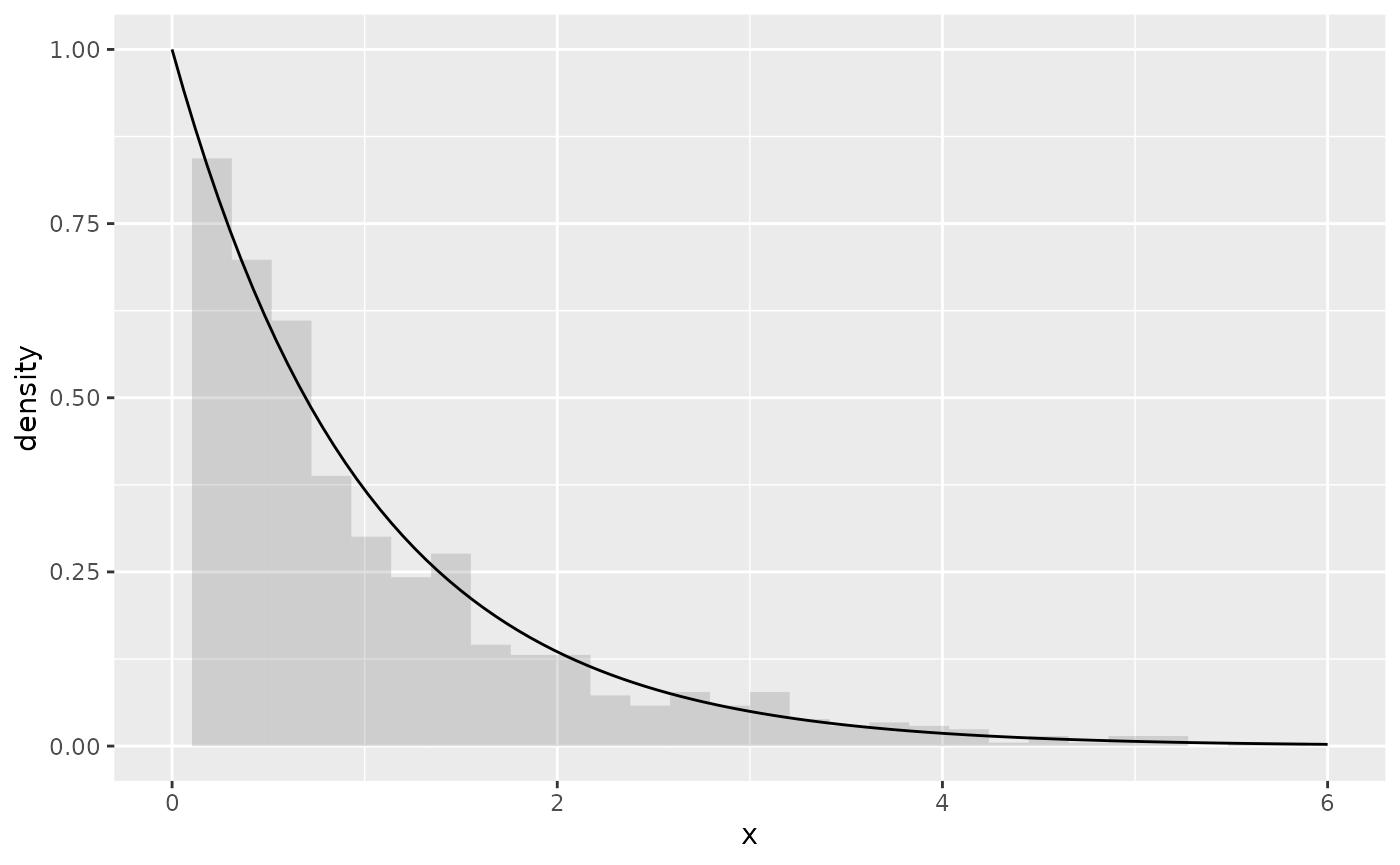
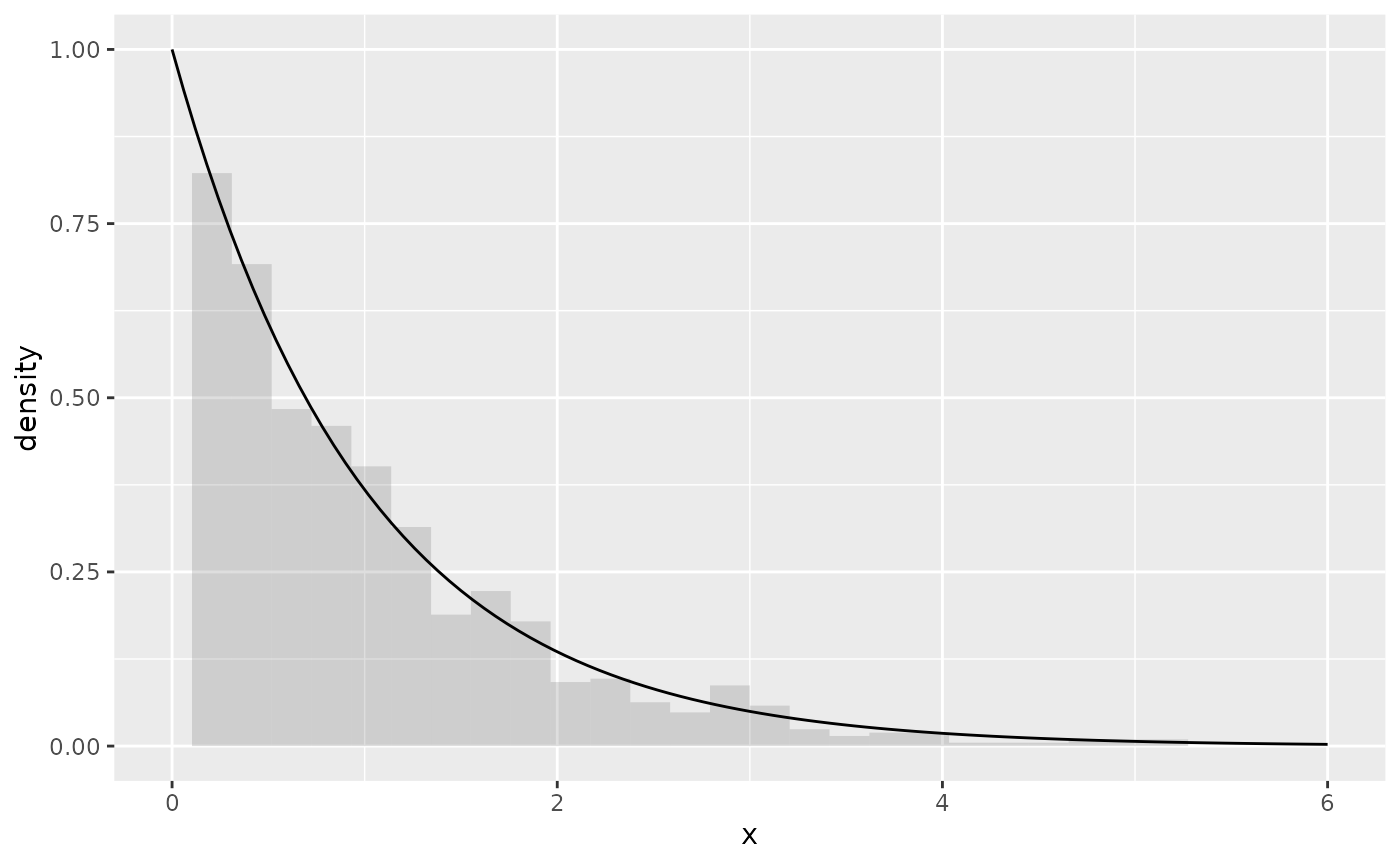
Built site for algebraic.mle: 0.9.0@e29075e

diff --git a/articles/exponential-mle.html b/articles/exponential-mle.html
@@ -103,12 +103,12 @@
 <div class="sourceCode" id="cb4"><pre class="downlit sourceCode r">
 <code class="sourceCode R"><span><span class="fu"><a href="https://rdrr.io/r/base/print.html" class="external-link">print</a></span><span class="op">(</span><span class="fu"><a href="https://rdrr.io/r/utils/head.html" class="external-link">head</a></span><span class="op">(</span><span class="va">x</span>,n<span class="op">=</span><span class="fl">4</span><span class="op">)</span><span class="op">)</span></span>
 <span><span class="co">#&gt; <span style="color: #949494;"># A tibble: 4 × 1</span></span></span>
-<span><span class="co">#&gt;        x</span></span>
-<span><span class="co">#&gt;    <span style="color: #949494; font-style: italic;">&lt;dbl&gt;</span></span></span>
-<span><span class="co">#&gt; <span style="color: #BCBCBC;">1</span> 2.59  </span></span>
-<span><span class="co">#&gt; <span style="color: #BCBCBC;">2</span> 2.00  </span></span>
-<span><span class="co">#&gt; <span style="color: #BCBCBC;">3</span> 0.192 </span></span>
-<span><span class="co">#&gt; <span style="color: #BCBCBC;">4</span> 0.076<span style="text-decoration: underline;">0</span></span></span></code></pre></div>
+<span><span class="co">#&gt;       x</span></span>
+<span><span class="co">#&gt;   <span style="color: #949494; font-style: italic;">&lt;dbl&gt;</span></span></span>
+<span><span class="co">#&gt; <span style="color: #BCBCBC;">1</span> 0.629</span></span>
+<span><span class="co">#&gt; <span style="color: #BCBCBC;">2</span> 6.23 </span></span>
+<span><span class="co">#&gt; <span style="color: #BCBCBC;">3</span> 1.57 </span></span>
+<span><span class="co">#&gt; <span style="color: #BCBCBC;">4</span> 0.750</span></span></code></pre></div>
 <p>We show a histogram of the sample overlaid with a plot of the exponential function’s pdf, with:</p>
 <div class="sourceCode" id="cb5"><pre class="downlit sourceCode r">
 <code class="sourceCode R"><span><span class="fu"><a href="https://ggplot2.tidyverse.org/reference/ggplot.html" class="external-link">ggplot</a></span><span class="op">(</span><span class="va">x</span>, <span class="fu"><a href="https://ggplot2.tidyverse.org/reference/aes.html" class="external-link">aes</a></span><span class="op">(</span>x<span class="op">=</span><span class="va">x</span><span class="op">)</span><span class="op">)</span> <span class="op">+</span> <span class="fu"><a href="https://ggplot2.tidyverse.org/reference/geom_histogram.html" class="external-link">geom_histogram</a></span><span class="op">(</span><span class="fu"><a href="https://ggplot2.tidyverse.org/reference/aes.html" class="external-link">aes</a></span><span class="op">(</span>y<span class="op">=</span><span class="va">..density..</span><span class="op">)</span>,alpha<span class="op">=</span><span class="fl">.2</span><span class="op">)</span> <span class="op">+</span></span>
@@ -125,35 +125,35 @@
 <span><span class="fu"><a href="https://rdrr.io/r/base/summary.html" class="external-link">summary</a></span><span class="op">(</span><span class="va">rate.hat</span><span class="op">)</span></span>
 <span><span class="co">#&gt; Maximum likelihood estimator, of type mle ,</span></span>
 <span><span class="co">#&gt; is normally distributed with mean</span></span>
-<span><span class="co">#&gt; [1] 0.989466</span></span>
+<span><span class="co">#&gt; [1] 1.058475</span></span>
 <span><span class="co">#&gt; and variance-covariance</span></span>
-<span><span class="co">#&gt;              [,1]</span></span>
-<span><span class="co">#&gt; [1,] 0.0009790429</span></span>
+<span><span class="co">#&gt;            [,1]</span></span>
+<span><span class="co">#&gt; [1,] 0.00112037</span></span>
 <span><span class="co">#&gt; ---</span></span>
-<span><span class="co">#&gt; The asymptotic mean squared error 0.0009790429 </span></span>
+<span><span class="co">#&gt; The asymptotic mean squared error 0.00112037 </span></span>
 <span><span class="co">#&gt; The asymptotic 95% confidence interval is</span></span>
-<span><span class="co">#&gt;       2.5 %   97.5 %</span></span>
-<span><span class="co">#&gt; 1 0.9379991 1.040933</span></span>
-<span><span class="co">#&gt; The log-likelihood is -1010.59 </span></span>
-<span><span class="co">#&gt; The AIC is 2023.18</span></span></code></pre></div>
+<span><span class="co">#&gt;      2.5 %   97.5 %</span></span>
+<span><span class="co">#&gt; 1 1.003419 1.113532</span></span>
+<span><span class="co">#&gt; The log-likelihood is -943.1705 </span></span>
+<span><span class="co">#&gt; The AIC is 1888.341</span></span></code></pre></div>
 <p>We can show the point estimator with:</p>
 <div class="sourceCode" id="cb7"><pre class="downlit sourceCode r">
 <code class="sourceCode R"><span><span class="fu"><a href="../reference/point.html">point</a></span><span class="op">(</span><span class="va">rate.hat</span><span class="op">)</span></span>
-<span><span class="co">#&gt; [1] 0.989466</span></span></code></pre></div>
+<span><span class="co">#&gt; [1] 1.058475</span></span></code></pre></div>
 <p>We can show the Fisher information and variance-covariance matrices with:</p>
 <div class="sourceCode" id="cb8"><pre class="downlit sourceCode r">
 <code class="sourceCode R"><span><span class="fu"><a href="../reference/fisher_info.html">fisher_info</a></span><span class="op">(</span><span class="va">rate.hat</span><span class="op">)</span></span>
 <span><span class="co">#&gt;          [,1]</span></span>
-<span><span class="co">#&gt; [1,] 1021.406</span></span>
+<span><span class="co">#&gt; [1,] 892.5622</span></span>
 <span><span class="fu"><a href="https://rdrr.io/r/stats/vcov.html" class="external-link">vcov</a></span><span class="op">(</span><span class="va">rate.hat</span><span class="op">)</span></span>
-<span><span class="co">#&gt;              [,1]</span></span>
-<span><span class="co">#&gt; [1,] 0.0009790429</span></span></code></pre></div>
+<span><span class="co">#&gt;            [,1]</span></span>
+<span><span class="co">#&gt; [1,] 0.00112037</span></span></code></pre></div>
 <p>(If <code>rate.hat</code> had been a vector, <code>vcov</code> would have output a variance-covariance matrix. We may consider the above outputs <span class="math inline">\(1 \times 1\)</span> matrices.)</p>
 <p>We can show the confidence interval with:</p>
 <div class="sourceCode" id="cb9"><pre class="downlit sourceCode r">
 <code class="sourceCode R"><span><span class="fu"><a href="https://rdrr.io/r/stats/confint.html" class="external-link">confint</a></span><span class="op">(</span><span class="va">rate.hat</span><span class="op">)</span></span>
-<span><span class="co">#&gt;       2.5 %   97.5 %</span></span>
-<span><span class="co">#&gt; 1 0.9379991 1.040933</span></span></code></pre></div>
+<span><span class="co">#&gt;      2.5 %   97.5 %</span></span>
+<span><span class="co">#&gt; 1 1.003419 1.113532</span></span></code></pre></div>
 <div class="section level3">
 <h3 id="sampling-distribution-of-the-mle">Sampling distribution of the MLE<a class="anchor" aria-label="anchor" href="#sampling-distribution-of-the-mle"></a>
 </h3>
@@ -206,10 +206,10 @@
 <div class="sourceCode" id="cb15"><pre class="downlit sourceCode r">
 <code class="sourceCode R"><span><span class="fu"><a href="../reference/point.html">point</a></span><span class="op">(</span><span class="va">f.hat</span><span class="op">)</span></span>
 <span><span class="co">#&gt;          [,1]</span></span>
-<span><span class="co">#&gt; [1,] 1.978932</span></span>
+<span><span class="co">#&gt; [1,] 2.116951</span></span>
 <span><span class="fu"><a href="https://rdrr.io/r/stats/vcov.html" class="external-link">vcov</a></span><span class="op">(</span><span class="va">f.hat</span><span class="op">)</span></span>
 <span><span class="co">#&gt;             [,1]</span></span>
-<span><span class="co">#&gt; [1,] 0.003736156</span></span></code></pre></div>
+<span><span class="co">#&gt; [1,] 0.004760395</span></span></code></pre></div>
 </div>
 </div>
 </div>
@@ -249,8 +249,8 @@
 <span><span class="fu"><a href="https://rdrr.io/r/base/colnames.html" class="external-link">rownames</a></span><span class="op">(</span><span class="va">df</span><span class="op">)</span> <span class="op">&lt;-</span> <span class="fu"><a href="https://rdrr.io/r/base/c.html" class="external-link">c</a></span><span class="op">(</span><span class="st">"weighted MLE"</span>, <span class="st">"MLE"</span><span class="op">)</span></span>
 <span><span class="fu"><a href="https://rdrr.io/r/base/print.html" class="external-link">print</a></span><span class="op">(</span><span class="va">df</span><span class="op">)</span></span>
 <span><span class="co">#&gt;              point estimate    variance</span></span>
-<span><span class="co">#&gt; weighted MLE       1.010829 0.001022692</span></span>
-<span><span class="co">#&gt; MLE                1.011736 0.001023610</span></span></code></pre></div>
+<span><span class="co">#&gt; weighted MLE       1.027587 0.001061403</span></span>
+<span><span class="co">#&gt; MLE                1.032908 0.001066898</span></span></code></pre></div>
 <p>We see that <span class="math inline">\(\hat\theta\)</span> and <span class="math inline">\(\hat\theta_w\)</span> model approximately the same sampling distribution for <span class="math inline">\(\theta\)</span>.</p>
 </div>
 </div>
